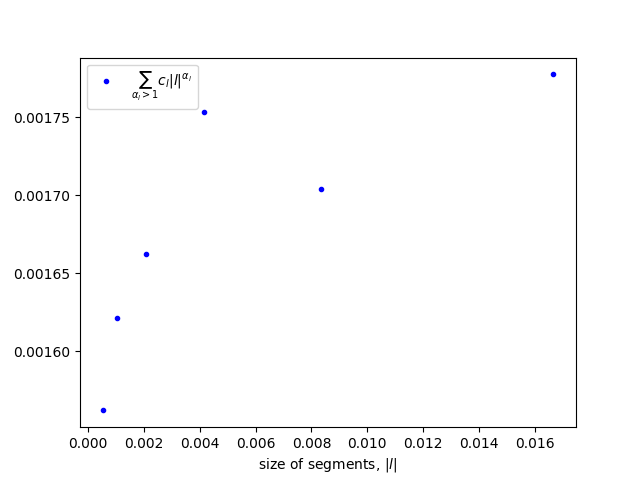
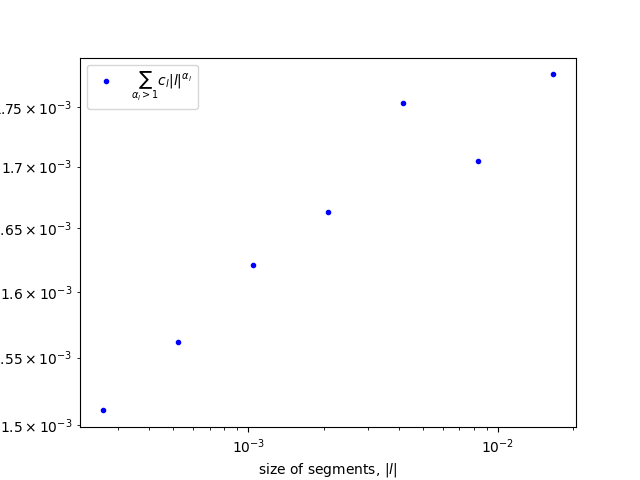
update

diff --git a/Ex3_square_harmonic_adaptive/check_hm.py b/Ex3_square_harmonic_adaptive/check_hm.py
@@ -49,7 +49,7 @@ line_list=line_list+line_list2
 # distance to boundary
 dy_list=[0.5*(1/3.)**n*(1/2.)**i for i in range(5)]
 
-N_all=[20,40,80,160,320,640]
+N_all=[20,40,80,160,320,640,1280]
 l_list=[] # size of segments
 ms_list=[]
 for N in N_all:
@@ -63,7 +63,7 @@ for N in N_all:
    ms_list.append(ms)
 
 plt.figure()
-plt.plot(l_list,ms_list,'b.')
+plt.loglog(l_list,ms_list,'b.')
 plt.xlabel('size of segments, $|l|$')
 plt.legend([r'$\sum_{\alpha_l>1}c_l|l|^{\alpha_l}$'  ])
 plt.savefig(f"figures/hm_n{n}.png")
